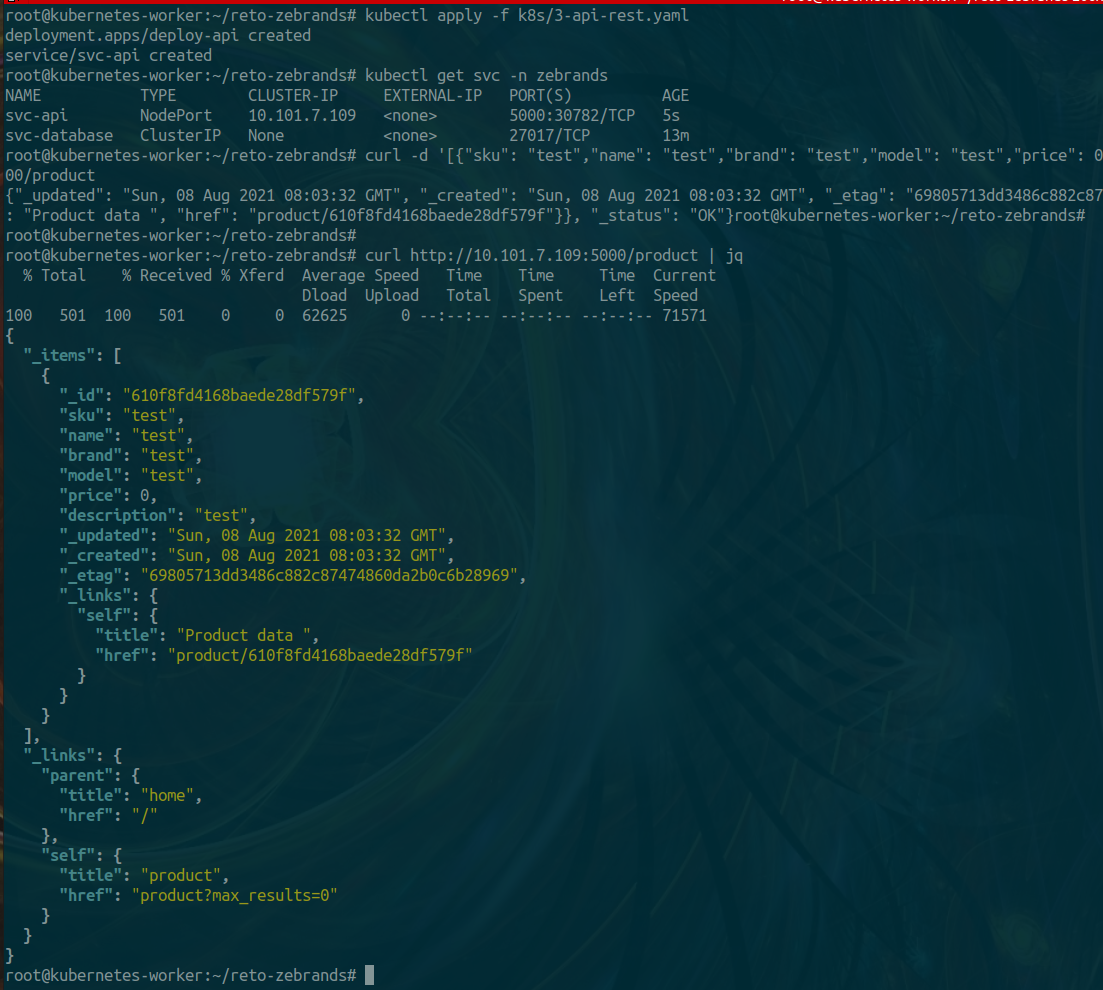
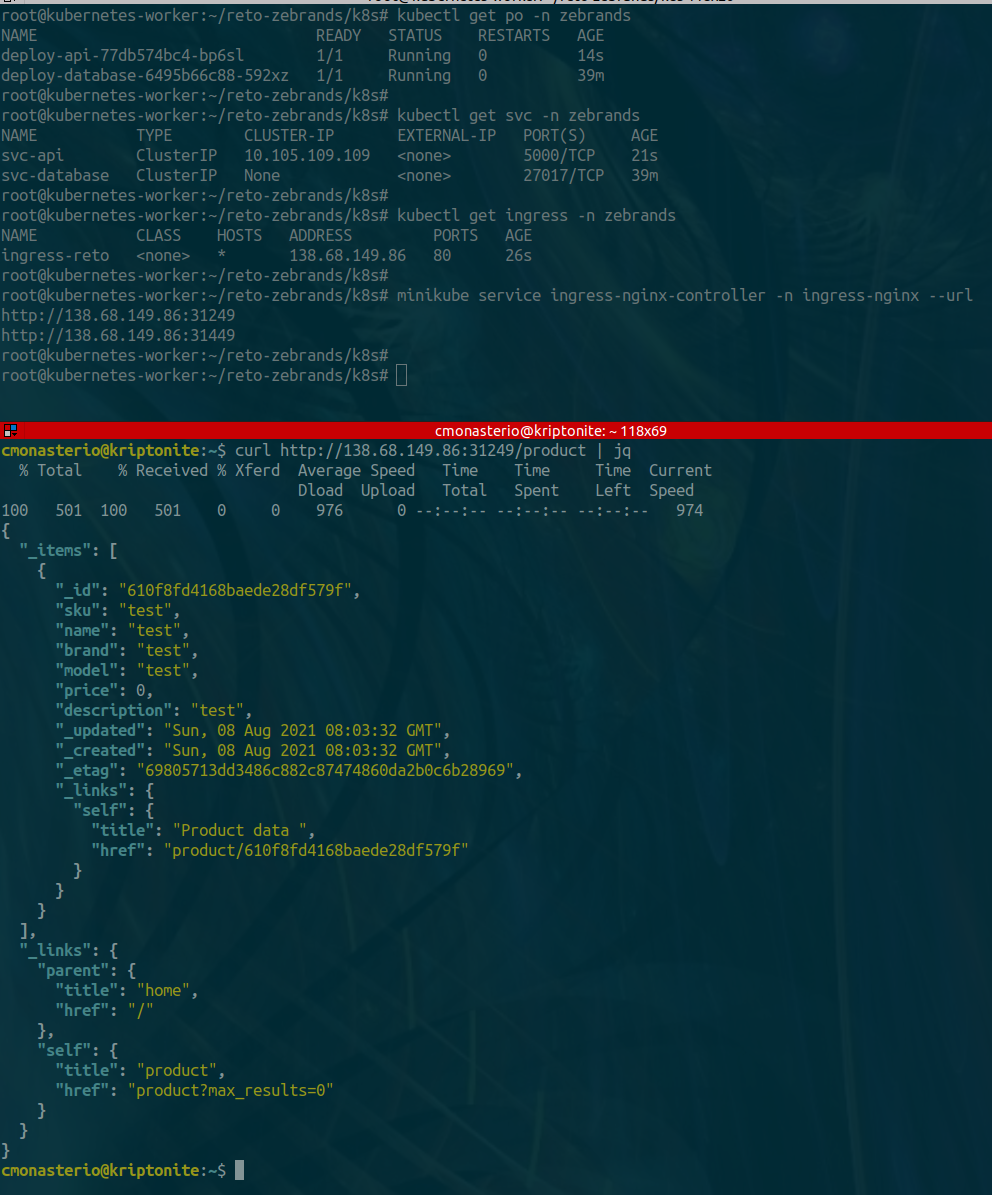
added ingress controller nginx, change node port service api to cluster ip and added step for ingresss controller in terrform

Changed region(s): [[0.0, 0.0, 1.0, 0.7273], [0.0, 0.697, 0.3438, 1.0]]

diff --git a/README.md b/README.md
@@ -63,12 +63,14 @@ Example in action
 
 ### Test API REST in Cluster Minikube of Kubernetes
 
-there are 3 files that must be executed in order in **k8s folder**:
+there are 4 files that must be executed in order in **k8s folder**:
 
 - Repository:
 	+ k8s:
 		- 1-namespace.yaml: set namespace project, the name is: ""zebrands"
 		- 2-database.yaml: set service database with persistent volume
+ 		- 3-api-rest.yaml: set API REST depends of database
+ 		- 4-ingress-rules.yaml: Rules Load Balancer with Nginx Rules
 
 ```bash
 #Step 1
@@ -78,7 +80,15 @@ kubectl apply -f k8s/1-namespace.yaml
 kubectl apply -f k8s/2-database.yaml
 
 #Step 3
-kubectl ´apply -f k8s/3-api-rest.yaml
+kubectl apply -f k8s/3-api-rest.yaml
+
+#Step 4
+
+#Install Ingress Nginx Controller
+kubectl apply -f https://raw.githubusercontent.com/kubernetes/ingress-nginx/controller-v0.45.0/deploy/static/provider/baremetal/deploy.yaml
+
+#apply rules
+kubectl apply -f k8s/4-ingress-rules.yaml
 
 ```
 
